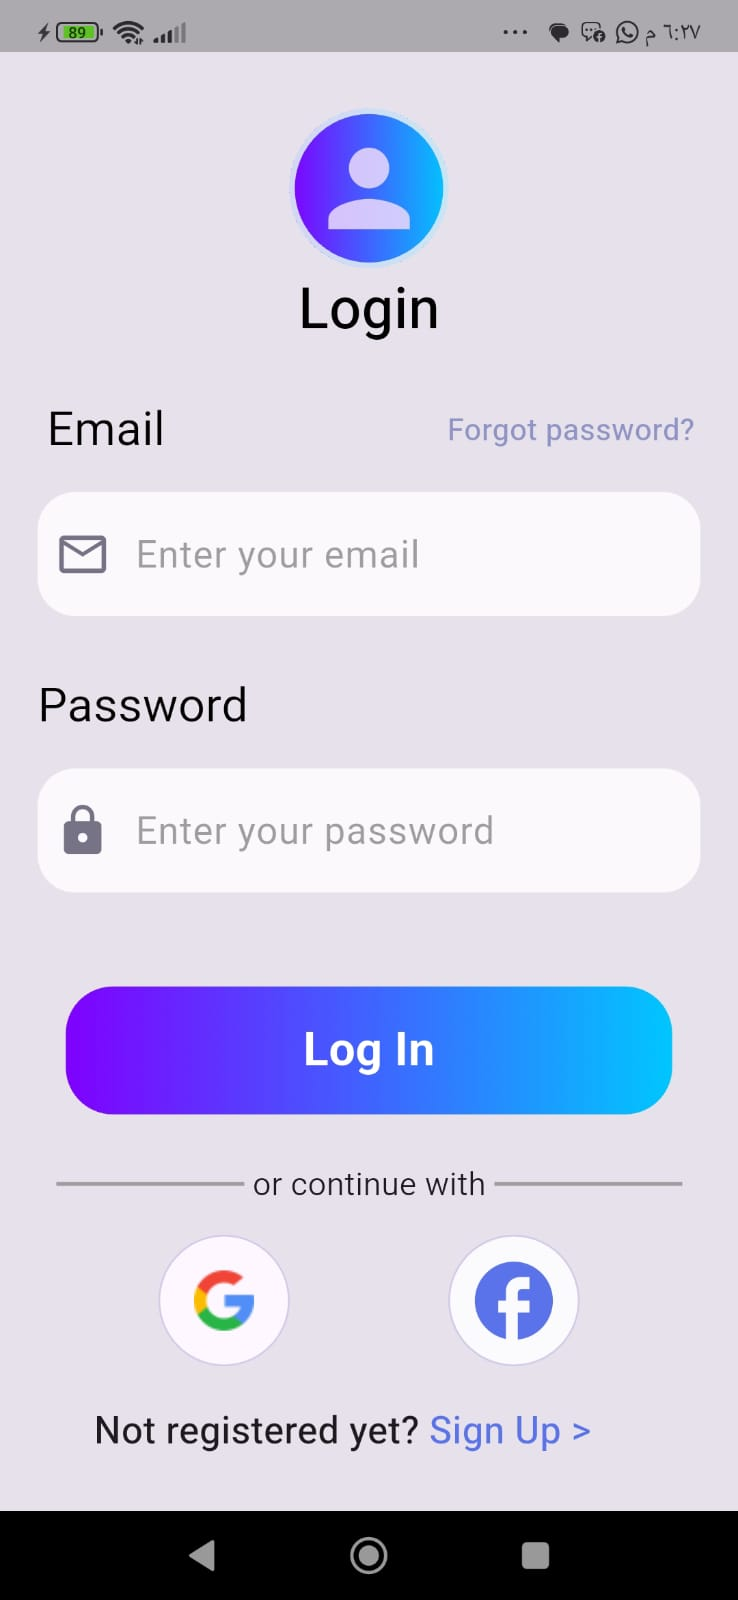
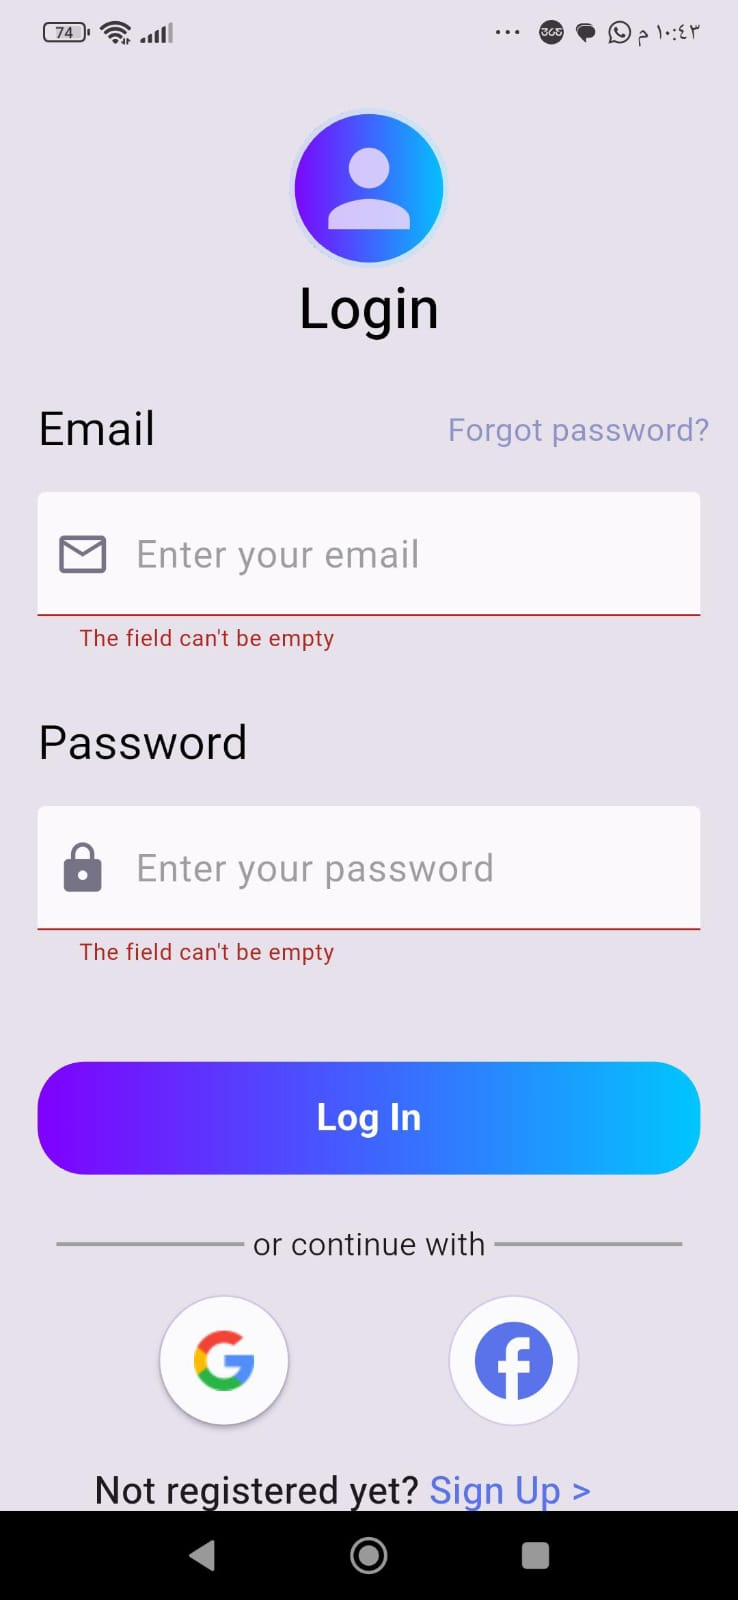
Improve README and add screenshots

diff --git a/README.md b/README.md
@@ -30,11 +30,15 @@ A Flutter mobile application implementing a complete authentication system using
 
 ### Login
 
-![Login Page](My_photos/LoginPage.jpeg)
+[Login Page](My_photos/LoginPage.jpeg)
 
 ### Sign Up
 
 ![Sign Up Page](My_photos/SignUpPage.jpeg)
+
+### Home 
+
+![Home Page](My_photos/HomePage.jpeg)
 
 ## 🔥 Firebase Architecture
 
